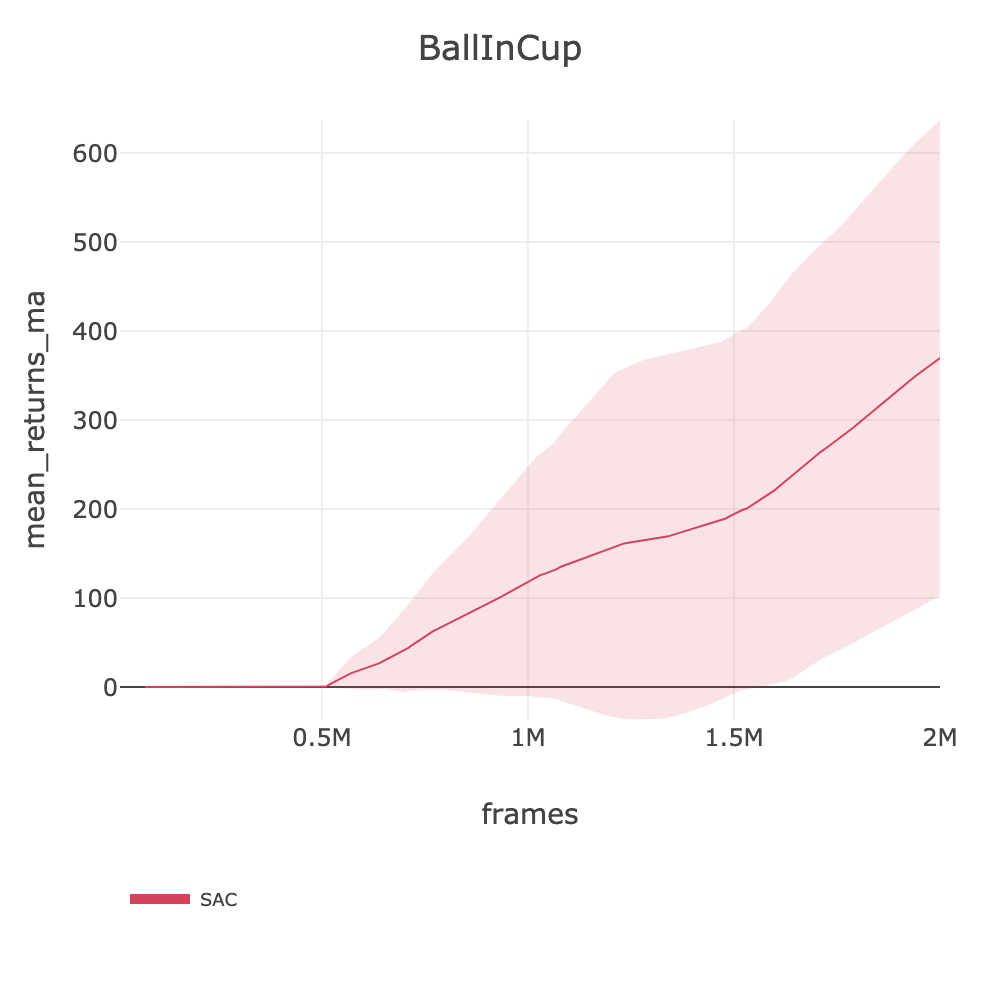
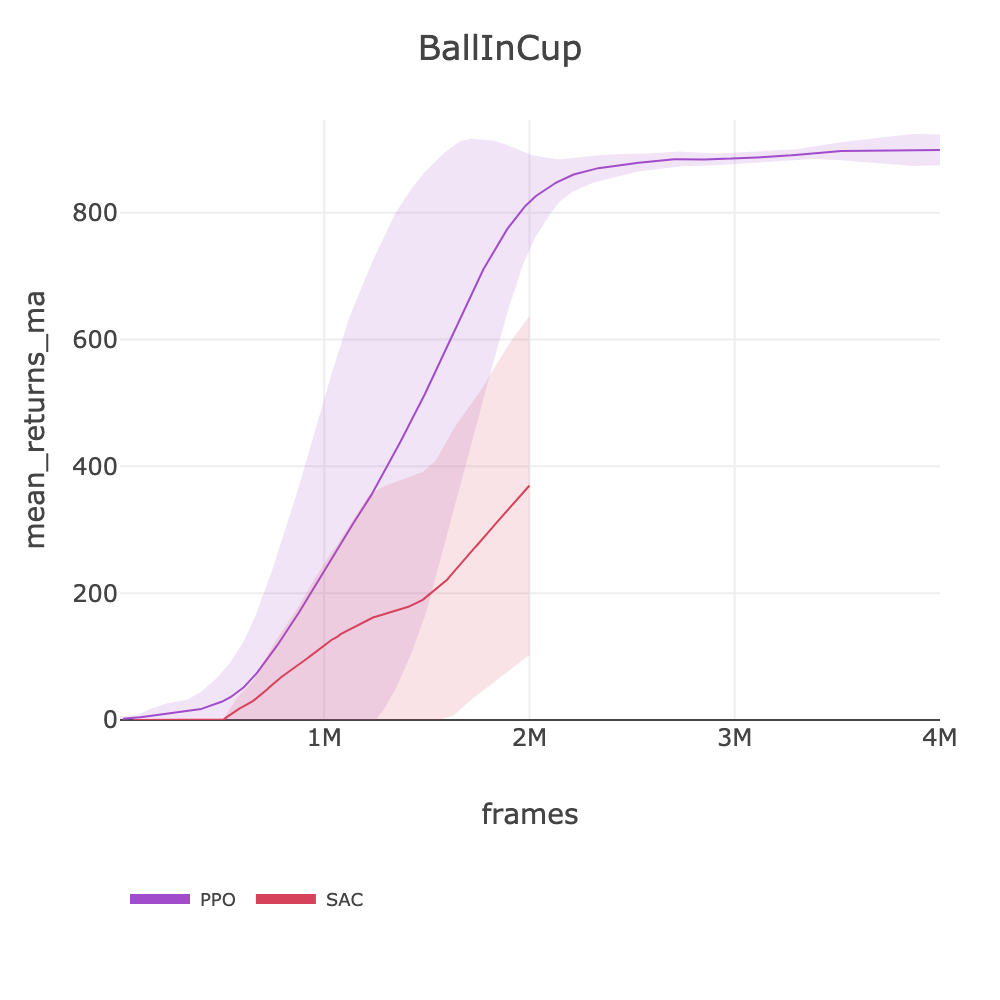
feat: Phase 5 BallInCup PPO 4M (898.71)

diff --git a/docs/BENCHMARKS.md b/docs/BENCHMARKS.md
@@ -793,7 +793,8 @@ source .env && slm-lab run-remote --gpu -s env=playground/CartpoleBalance -s max
 | playground/AcrobotSwingup | PPO | 29.53 | ~63 | ~325 (256e) | 4M | ~3.4h | [ppo_playground_arc_acrobotswingup_2026_03_07_085704](https://huggingface.co/datasets/SLM-Lab/benchmark-dev/tree/main/data/ppo_playground_arc_acrobotswingup_2026_03_07_085704) |
 | | SAC | 46.28 | | ~67 (hard/16e) | 1M | ~4.6h | [sac_playground_arc_utd1_acrobotswingup_2026_03_06_221001](https://huggingface.co/datasets/SLM-Lab/benchmark-dev/tree/main/data/sac_playground_arc_utd1_acrobotswingup_2026_03_06_221001) |
 | playground/AcrobotSwingupSparse | SAC | 0.00 | ~20 | ~67 (hard/16e) | 1M | ~4.6h | [sac_playground_arc_utd1_acrobotswingupsparse_2026_03_06_221029](https://huggingface.co/datasets/SLM-Lab/benchmark-dev/tree/main/data/sac_playground_arc_utd1_acrobotswingupsparse_2026_03_06_221029) |
-| playground/BallInCup | SAC | 369.78 | ~944 | ~344 (fast/64e) | 2M | ~1.0h | [sac_playground_arc_fast_ballincup_2026_03_07_082212](https://huggingface.co/datasets/SLM-Lab/benchmark-dev/tree/main/data/sac_playground_arc_fast_ballincup_2026_03_07_082212) |
+| playground/BallInCup | PPO | 898.71 | ~944 | ~242 (256e) | 4M | ~4.5h | [ppo_playground_arc_ballincup_2026_03_07_085829](https://huggingface.co/datasets/SLM-Lab/benchmark-dev/tree/main/data/ppo_playground_arc_ballincup_2026_03_07_085829) |
+| | SAC | 369.78 | | ~344 (fast/64e) | 2M | ~1.0h | [sac_playground_arc_fast_ballincup_2026_03_07_082212](https://huggingface.co/datasets/SLM-Lab/benchmark-dev/tree/main/data/sac_playground_arc_fast_ballincup_2026_03_07_082212) |
 | playground/CartpoleBalance | PPO | 918.12 | ~995 | ~2000 (256e) | 2M | ~0.3h | [ppo_playground_arc_cartpolebalance_2026_03_06_153756](https://huggingface.co/datasets/SLM-Lab/benchmark-dev/tree/main/data/ppo_playground_arc_cartpolebalance_2026_03_06_153756) |
 | | SAC (DR128) | 613.83 | | ~3540 (dr128/128e) | 10M | ~0.8h | [sac_playground_arc_dr128_cartpolebalance_2026_03_06_181905](https://huggingface.co/datasets/SLM-Lab/benchmark-dev/tree/main/data/sac_playground_arc_dr128_cartpolebalance_2026_03_06_181905) |
 | playground/CartpoleBalanceSparse | PPO | 504.59 | ~992 | ~310 (256e) | 1M | ~0.9h | [ppo_playground_arc_cartpolebalancesparse_2026_03_06_181842](https://huggingface.co/datasets/SLM-Lab/benchmark-dev/tree/main/data/ppo_playground_arc_cartpolebalancesparse_2026_03_06_181842) |
